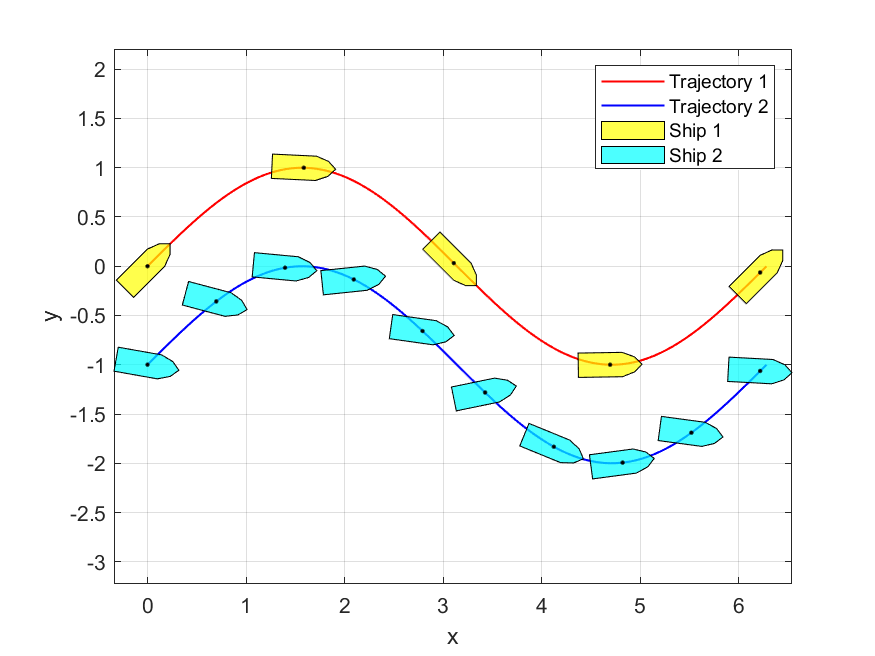
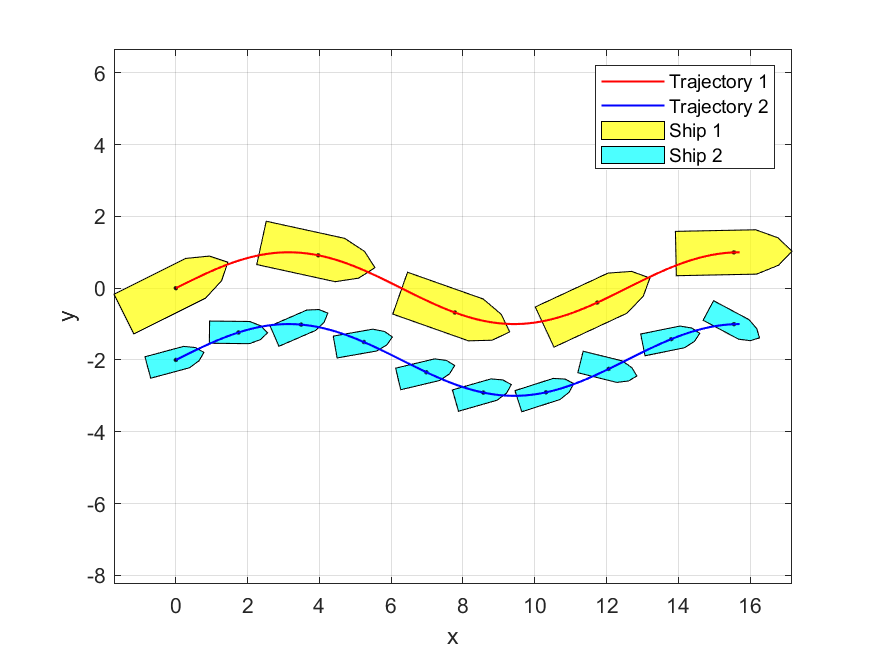
Revision

diff --git a/shipmk.m b/shipmk.m
@@ -2,15 +2,18 @@ function fh = shipmk(x,y,varargin)
 %% shipmk
 % Draw ship-shape markers on a trajectory
 % Inputs:
-%   (x, y) - point set of the curve 
+%   (x, y) - point set of the trajectory.
 %   psi - heading of ship markers (rad) with the same length of x and y, 
-%       default if empty: headings are along the curve.
-%   ms - ship marker scale in range (0,1]
-%   mn - ship marker number (integer)
-%   mc - ship marker color ( 'r', 'g', 'b', etc. OR [0.4 0.4 0.5] ...)
+%           default if empty: headings are along the trajectory.
+%   ms - ship marker scale in range (positive scalar), 
+%           default scale is 1.
+%   mn - ship marker number (positive integer), 
+%           default number is 5.
+%   mc - ship marker color ( 'r', 'g', 'b' OR [0.4 0.4 0.5], etc), 
+%           default color is 'y'.
 % Created on: 2021-05-12
 % Modified on: 2025-04-14 
-% Author: github.com/ElkmanY
+% Author: github.com/elkmany
 %% assign parameters
 sv = length(varargin);
 psi = []; mn = []; ms = []; mc = [];
@@ -27,7 +30,7 @@ if isempty(mn)
     mn = 5;
 end
 if isempty(ms)
-    ms = 0.2;
+    ms = 1;
 end
 if isempty(mc)
     mc = 'y';
@@ -54,6 +57,5 @@ for k = round(linspace(1,length(x)-1,mn))
     fh = fill(S(1,:),S(2,:),mc,'FaceAlpha',0.7,'EdgeColor','k','LineWidth',0.5);
     plot(x(k),y(k),'k.');
 end
-hold off
 end
 

diff --git a/example.m b/example.m
@@ -1,19 +1,21 @@
 close all;
 clearvars
 %%
-x = linspace(0,2*pi,100);
-y = sin(x);
+x = linspace(0,5*pi,100);
+y = sin(0.5*x);
 psi = pi/2 + pi/6*(2*rand(1,100)-1);
 
-figure
-t1 = plot(x,y,'r','LineWidth',1);
+figure;
 s1 = shipmk(x,y);
-hold on
-t2 = plot(x,y-1,'b','LineWidth',1);
-s2 = shipmk(x,y-1,psi,[],10,'c');
-xlabel('x')
-ylabel('y')
+hold on;
+t1 = plot(x,y,'r','LineWidth',1);
+s2 = shipmk(x,y-2,psi,0.5,10,'c');
+t2 = plot(x,y-2,'b','LineWidth',1);
+hold off;
+xlabel('x');
+ylabel('y');
 lg = legend([t1,t2,s1,s2], ...
     {'Trajectory 1','Trajectory 2','Ship 1','Ship 2'});
+box on
 
 saveas(gcf, 'example_plot.png', 'png');

diff --git a/README.md b/README.md
@@ -4,22 +4,22 @@ Draw ship-shaped markers on a curve with Matlab function Plot.
 ## usage
 
 ```matlab
-shipmk( x, y, psi, ms, mn, mc );  % Draw ship-shaped markers on a curve 
+shipmk( x, y, psi, ms, mn, mc );  
 
 ``` 
 
 ### inputs:
 
--   `(x, y)` - point set of the curve
--   `psi` - heading of ship markers (rad) with the same length of x and y, default if empty: headings are along the curve.
--   `ms` - ship marker scale in range (0,1]
--   `mn` - ship marker number (integer)
--   `mc` - ship marker color ( 'r', 'g', 'b', etc. OR [0.4 0.4 0.5] ...)
+-   `(x, y)` - point set of the trajectory.
+-   `psi` - heading of ship markers (in rad) with the same length of `x` and `y`, default headings are along the trajectory.
+-   `ms` - ship marker scale in range (positive real scalar), default scale is 1.
+-   `mn` - ship marker number (positive integer scalar), default number is 5.
+-   `mc` - ship marker color ( 'r', 'g', 'b' OR [0.4 0.4 0.5], etc), default color is 'y'.
 
 ## example
 
-Run a test by executing
+Run an example by executing
 ```matlab 
-test.m
+example.m
 ```
-![example_plot](/example_plot.png)
+![example_plot](example_plot.png)
